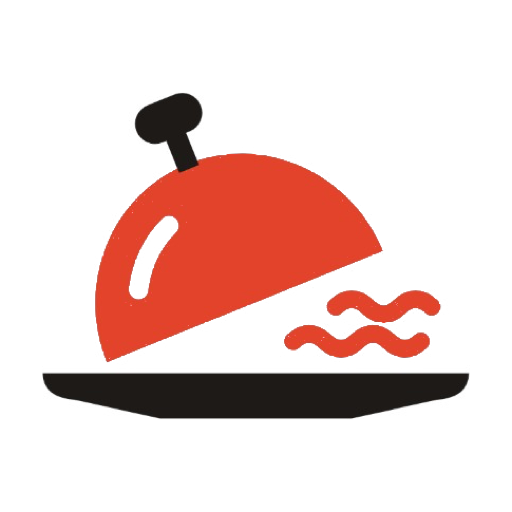
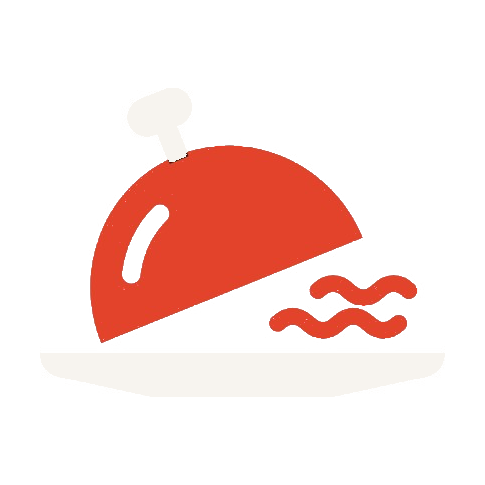
feat(landing): los platos en blanco, y la campanita con el suyo
El plato y el mango del isotipo eran casi negros: sobre el fondo oscuro de
la landing no se veían, así que la campana parecía flotar. Ahora van en
crema y la cúpula queda roja.

La campanita de la "a" directamente no tenía plato. Se lo agrega con la
forma del isotipo, escalada: ahí el plato mide 403 contra una cúpula de
300, o sea que es más ancho que la campana. La primera versión lo escaló
contra el lienzo en vez de contra la cúpula y salió al revés, más angosto
que la campana y sin presencia.

El ícono de iOS pasa a tener el fondo oscuro pegado. Con el plato en
blanco y el fondo transparente, en una pantalla clara se veía una cúpula
roja flotando sin plato — iOS no compone transparencia para el acceso
directo.

El lienzo de la campanita creció, así que `bottom` y `width` se
recalcularon: la cúpula es ahora una fracción menor de la imagen.

diff --git a/apps/landing/index.html b/apps/landing/index.html
@@ -271,7 +271,7 @@
           <span class="letra">a</span>
           <span class="letra">d</span>
           <span class="letra letra-a">a<img
-            class="marca-campanita" src="./hero-campanita.png" alt="" width="167" height="130"
+            class="marca-campanita" src="./hero-campanita.png" alt="" width="228" height="156"
           /></span>
           <span class="letra">k</span>
           <span class="letra">i</span>

diff --git a/apps/landing/landing.css b/apps/landing/landing.css
@@ -1257,8 +1257,8 @@ strong { color: var(--tinta); font-weight: 700; }
    * junto con el texto en cualquier pantalla.
    */
   left: 50%;
-  bottom: 74%;
-  width: 84%;
+  bottom: 62%;
+  width: 116%;
   height: auto;
   transform: translateX(-50%);
 }

diff --git a/design/README.md b/design/README.md
@@ -78,6 +78,20 @@ que alguien lo mira.
 **A 16 píxeles** el logo entero es una mancha. Por eso el favicon es el
 isotipo solo.
 
+**Las piezas en blanco.** El plato y el mango del isotipo eran casi negros y
+sobre el fondo oscuro de la landing no se veían. `itadaki-isotipo-blanco.png`
+los pasa a crema dejando la cúpula roja; es el que usan la landing y las tres
+apps del personal.
+
+`itadaki-ios.png` es ese mismo con el fondo oscuro pegado: iOS no compone
+transparencia para el acceso directo, y el plato blanco sobre una pantalla
+clara desaparecía.
+
+`hero-campanita-plato.png` le agrega a la campanita el plato que no tenía. La
+forma sale del isotipo, escalada: ahí el plato mide 403 contra una cúpula de
+300, o sea que es más ancho que la campana. La primera versión lo escaló
+contra el lienzo en vez de contra la cúpula y quedó al revés, más angosto.
+
 **Falta el vector.** El original es un JPEG, así que estas versiones se
 recortaron por color: el fondo era perfectamente uniforme y salió limpio,
 pero ampliado mucho se ve el ruido del JPEG alrededor de las letras. Para
